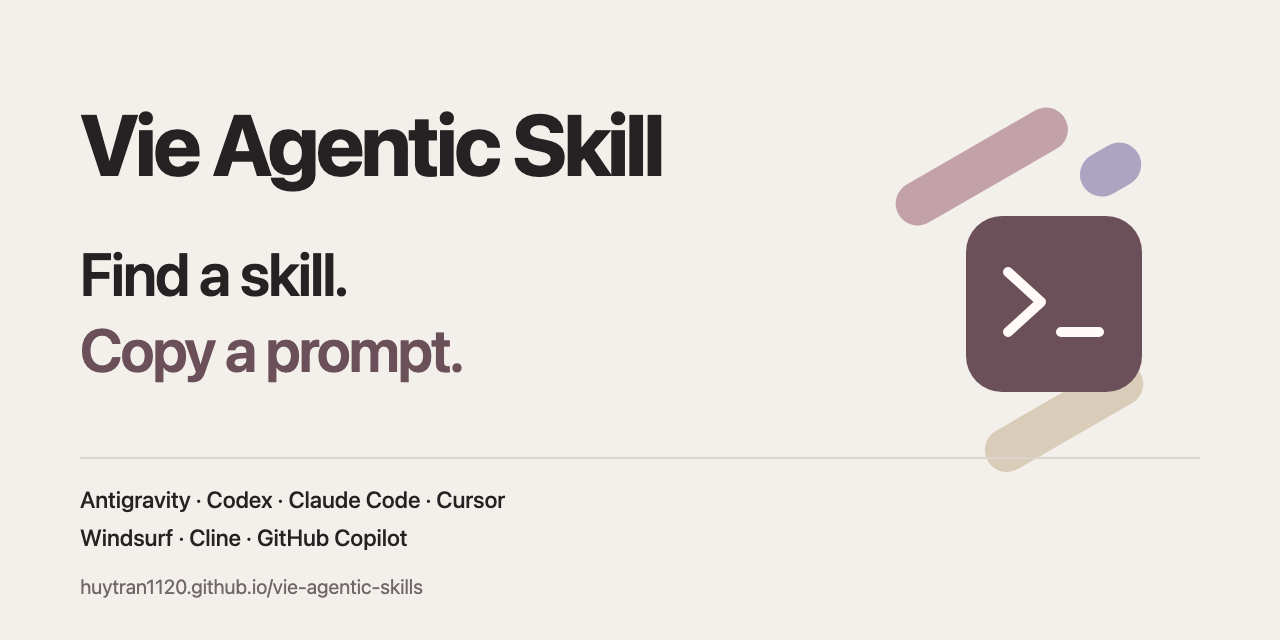
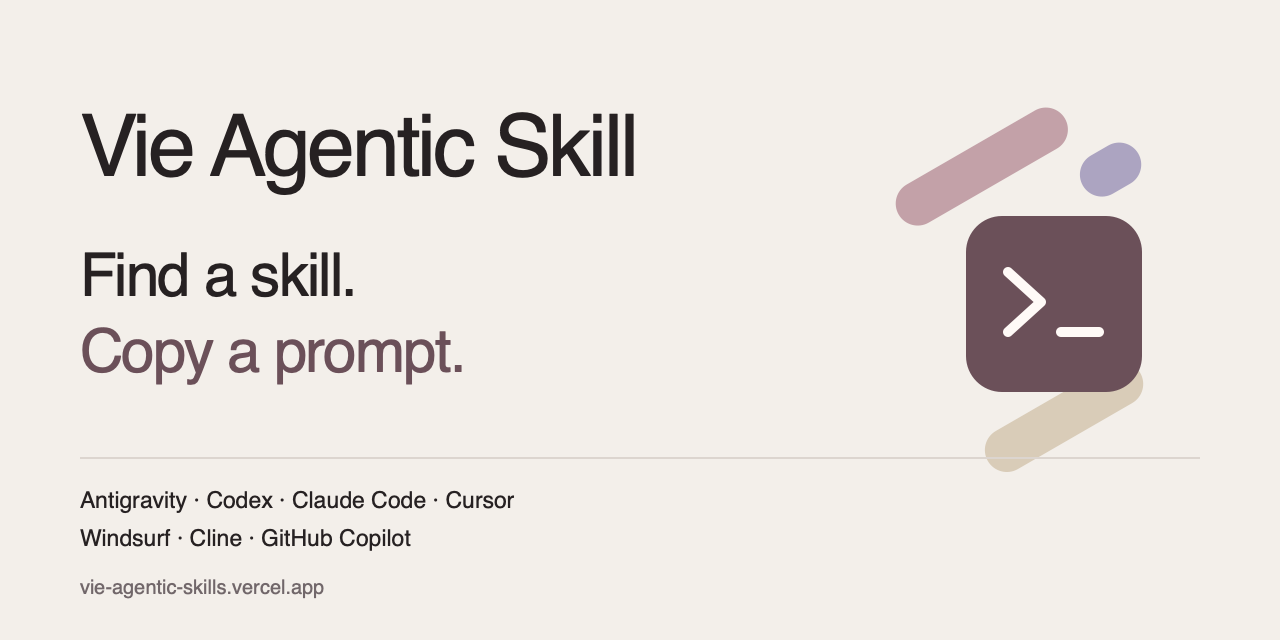
Align website SEO and installation links with Vercel

diff --git a/docs/index.html b/docs/index.html
@@ -3,22 +3,22 @@
 <head>
   <meta charset="UTF-8">
   <meta name="viewport" content="width=device-width, initial-scale=1.0">
-  <title>Vie Agentic Skill — Thư viện skill cho quy trình kỹ thuật</title>
-  <meta name="description" data-i18n-content="page.description" content="Tra cứu 3,885 runbook cho AI coding agents. Copy Agent Prompt để cài đủ tệp vào dự án, không cần clone; hoặc quản lý offline bằng CLI.">
+  <title>Vie Agentic Skill — Thư viện skill AI cho Codex, Claude</title>
+  <meta name="description" data-i18n-content="page.description" content="Tìm 3.885 skill cho Codex, Claude Code, Cursor và AI coding agents: lập trình, kiểm thử, DevOps, bảo mật. Đọc runbook, sao chép prompt và cài vào dự án.">
   <meta name="author" content="Vie Agentic Skill contributors; upstream catalog by Huy Tran">
   <meta name="robots" content="index, follow">
   <meta name="theme-color" content="#f3efea">
-  <link rel="canonical" href="https://huytran1120.github.io/vie-agentic-skills/">
-  <link rel="alternate" hreflang="vi" href="https://huytran1120.github.io/vie-agentic-skills/?lang=vi">
-  <link rel="alternate" hreflang="en" href="https://huytran1120.github.io/vie-agentic-skills/?lang=en">
+  <link rel="canonical" href="https://vie-agentic-skills.vercel.app/">
+  <link rel="alternate" hreflang="vi" href="https://vie-agentic-skills.vercel.app/?lang=vi">
+  <link rel="alternate" hreflang="en" href="https://vie-agentic-skills.vercel.app/?lang=en">
   <link rel="icon" type="image/png" href="./assets/brand/vas-icon.png">
   <link rel="apple-touch-icon" href="./assets/brand/vas-icon.png">
   <meta property="og:type" content="website">
   <meta property="og:title" data-i18n-content="page.ogTitle" content="Vie Agentic Skill — Thư viện skill AI">
   <meta property="og:description" data-i18n-content="page.ogDescription" content="Tìm skill, sao chép prompt và cài vào AI agent của bạn. Không cần clone repo.">
-  <meta property="og:url" content="https://huytran1120.github.io/vie-agentic-skills/">
-  <meta property="og:image" content="https://huytran1120.github.io/vie-agentic-skills/assets/social-preview.png">
-  <meta property="og:image:secure_url" content="https://huytran1120.github.io/vie-agentic-skills/assets/social-preview.png">
+  <meta property="og:url" content="https://vie-agentic-skills.vercel.app/">
+  <meta property="og:image" content="https://vie-agentic-skills.vercel.app/assets/social-preview.png">
+  <meta property="og:image:secure_url" content="https://vie-agentic-skills.vercel.app/assets/social-preview.png">
   <meta property="og:image:type" content="image/png">
   <meta property="og:image:width" content="1280">
   <meta property="og:image:height" content="640">
@@ -28,7 +28,7 @@
   <meta name="twitter:card" content="summary_large_image">
   <meta name="twitter:title" data-i18n-content="page.ogTitle" content="Vie Agentic Skill — Thư viện skill AI">
   <meta name="twitter:description" data-i18n-content="page.twitterDescription" content="Tìm skill, sao chép prompt và cài vào AI agent của bạn. Không cần clone repo.">
-  <meta name="twitter:image" content="https://huytran1120.github.io/vie-agentic-skills/assets/social-preview.png">
+  <meta name="twitter:image" content="https://vie-agentic-skills.vercel.app/assets/social-preview.png">
   <meta name="twitter:image:alt" data-i18n-content="page.imageAlt" content="Vie Agentic Skill — Tìm skill, sao chép prompt và cài vào dự án.">
   <link rel="stylesheet" href="./catalog.css">
   <script src="./i18n.js" defer></script>
@@ -41,7 +41,7 @@
       {
         "@type": "WebSite",
         "name": "Vie Agentic Skill",
-        "url": "https://huytran1120.github.io/vie-agentic-skills/",
+        "url": "https://vie-agentic-skills.vercel.app/",
         "inLanguage": ["vi-VN", "en"]
       },
       {
@@ -85,8 +85,8 @@
   <div class="hero-field" aria-hidden="true"><i></i><i></i><i></i><i></i><i></i><i></i><i></i><i></i></div>
   <a class="release-badge" href="#blender"><span aria-hidden="true">●</span><span data-i18n="hero.release">94 skill Blender · Khám phá bộ sưu tập</span><span aria-hidden="true">›</span></a>
   <h1 id="intro-title"><span>Vie Agentic Skill</span><span class="hero-second"><span data-i18n="hero.for">cho</span> <button id="hero-agent" aria-label="Đổi agent mục tiêu">Codex</button></span></h1>
-  <p class="intro-description"><span data-i18n="hero.description">3,885 runbook kỹ thuật cho AI coding agents.</span><br> <span data-i18n="hero.workflow">Tìm đúng chuyên môn, đọc quy trình và đưa vào dự án.</span></p>
-  <div class="hero-actions"><button id="hero-explore" class="button primary"><span aria-hidden="true">↓</span><span><span data-i18n="hero.explore">Khám phá thư viện</span><small data-i18n="hero.categories">119 danh mục · Python 3 CLI</small></span></button><a class="button quiet" href="#quickstart" data-i18n="hero.install">Hướng dẫn cài đặt</a></div>
+  <p class="intro-description"><span data-i18n="hero.description">3.885 skill kỹ thuật cho AI coding agents.</span><br> <span data-i18n="hero.workflow">Chọn agent, đọc runbook và sao chép prompt cài vào dự án.</span></p>
+  <div class="hero-actions"><button id="hero-explore" class="button primary"><span aria-hidden="true">↓</span><span><span data-i18n="hero.explore">Tìm skill cho dự án</span><small data-i18n="hero.categories">119 danh mục · Python 3 CLI</small></span></button><a class="button quiet" href="#quickstart" data-i18n="hero.install">Hướng dẫn cài đặt</a></div>
   <dl class="library-stats"><div><dt data-i18n="stats.runbooks">3,885 runbook</dt><dd data-i18n="stats.tasks">Quy trình theo tác vụ và stack.</dd></div><div><dt data-i18n="stats.agents">Nhiều coding agent</dt><dd data-i18n="stats.agentsDescription">Codex, Claude, Cursor và hơn nữa.</dd></div><div><dt>Python 3 CLI</dt><dd data-i18n="stats.cli">Tìm và cài bằng công cụ local.</dd></div><div><dt data-i18n="stats.sources">Nguồn rõ ràng</dt><dd data-i18n="stats.licenses">Từng skill giữ giấy phép riêng.</dd></div></dl>
 </div></section>
 <section id="catalog" class="shell catalog" aria-label="Thư viện skill" data-i18n-aria-label="catalog.title"><div class="section-heading catalog-heading"><div><p class="section-number">01</p><h2 data-i18n="catalog.title">Thư viện skill</h2><p data-i18n="catalog.description">Tìm theo tác vụ, công nghệ hoặc nguồn. Chọn skill để đọc runbook và tạo lệnh cài.</p></div><a class="text-link" href="https://github.com/huytran1120/vie-agentic-skills/blob/main/CATALOG.md" data-i18n="catalog.full">Toàn bộ catalog ↗</a></div>
@@ -137,6 +137,13 @@ chmod +x vas vas.py &amp;&amp;
     <div><h3 data-i18n="setup.useStep">4. Kiểm tra và bắt đầu dùng</h3><p data-i18n="setup.useHelp">Trong bảng cài đặt, mở “Sau khi cài: kiểm tra và dùng skill”. Chạy lệnh status, mở dự án trong agent rồi dán prompt mẫu và nêu tác vụ của bạn. Lệnh gỡ cũng được tạo đúng nơi đã chọn.</p></div>
     <p><span data-i18n="setup.requirementsBefore">CLI dùng thư viện chuẩn Python 3, không cần NPX. Trên Windows, dùng Git Bash với Python 3; có thể thay </span><code>./vas</code><span data-i18n="setup.requirementsBetween"> bằng </span><code>python3 vas.py</code><span data-i18n="setup.requirementsAfter">. Mỗi runbook có thể yêu cầu công cụ riêng. Link cần giữ nguyên kho nguồn; copy là bản sao độc lập và không tự cập nhật theo kho VAS.</span></p>
   </div></details>
+  <section id="faq" class="website-faq" aria-labelledby="faq-title">
+    <h2 id="faq-title" data-i18n="faq.title">Hiểu và sử dụng skill cho AI agent</h2>
+    <details class="quickstart-details"><summary data-i18n="faq.skillQuestion">Skill cho AI agent là gì?</summary><p data-i18n="faq.skillAnswer">Skill là bộ hướng dẫn chuyên môn trong SKILL.md: khi nào áp dụng, thông tin cần có, các bước thực hiện và cách kiểm tra kết quả. Một số skill có thêm scripts, mẫu và tài liệu tham khảo.</p></details>
+    <details class="quickstart-details"><summary data-i18n="faq.installQuestion">Cài skill vào Codex, Claude Code hoặc Cursor như thế nào?</summary><p data-i18n="faq.installAnswer">Tìm skill, đọc runbook, chọn agent rồi bấm Copy Agent Prompt. Dán prompt vào chat trong dự án đang mở để agent tải đủ tệp theo manifest và kiểm tra SHA-256. Luồng này không cần clone toàn bộ kho VAS.</p></details>
+    <details class="quickstart-details"><summary data-i18n="faq.requirementsQuestion">Cài skill có bao gồm runtime, MCP và quyền sử dụng không?</summary><p data-i18n="faq.requirementsAnswer">Cài skill cung cấp hướng dẫn và các tệp đi kèm. Bạn vẫn cần thiết lập công cụ, MCP hoặc tài khoản mà runbook yêu cầu. Kiểm tra giấy phép và thông báo nguồn của từng skill trước khi sử dụng hoặc phân phối lại.</p></details>
+    <details class="quickstart-details"><summary data-i18n="faq.cliQuestion">Khi nào nên dùng CLI thay cho Copy Agent Prompt?</summary><p data-i18n="faq.cliAnswer">Dùng CLI khi cần làm việc offline sau khi đã tải kho, cài bằng symlink, chọn thư mục đích hoặc quản lý nhiều skill. Các lệnh install, status và uninstall phải dùng cùng target và thư mục đích.</p></details>
+  </section>
 </section>
 </div>
 <section id="detail-view" class="shell detail-view" hidden aria-label="Chi tiết skill" data-i18n-aria-label="detail.label"><div id="skill-detail"></div></section>

diff --git a/docs/i18n.js b/docs/i18n.js
@@ -1,8 +1,8 @@
 (function () {
   'use strict';
   const messages = {
-    'page.title': ['Vie Agentic Skill — Thư viện skill cho quy trình kỹ thuật', 'Vie Agentic Skill — Runbooks for engineering workflows'],
-    'page.description': ['Tra cứu 3.885 runbook cho AI coding agents. Copy Agent Prompt để cài đủ tệp vào dự án, không cần clone; hoặc quản lý offline bằng CLI.', 'Explore 3,885 runbooks for AI coding agents. Copy Agent Prompt to install complete skills without cloning, or manage them offline with the CLI.'],
+    'page.title': ['Vie Agentic Skill — Thư viện skill AI cho Codex, Claude', 'Vie Agentic Skill — AI Skills for Codex, Claude and Cursor'],
+    'page.description': ['Tìm 3.885 skill cho Codex, Claude Code, Cursor và AI coding agents: lập trình, kiểm thử, DevOps, bảo mật. Đọc runbook, sao chép prompt và cài vào dự án.', 'Find 3,885 skills for Codex, Claude Code, Cursor and AI coding agents: development, testing, DevOps and security. Read runbooks and copy install prompts.'],
     'page.ogTitle': ['Vie Agentic Skill — Thư viện skill AI', 'Vie Agentic Skill — AI Agent Skills'],
     'page.ogDescription': ['Tìm skill, sao chép prompt và cài vào AI agent của bạn. Không cần clone repo.', 'Find a skill, copy a prompt, and install it in your AI agent. No repository clone needed.'],
     'page.twitterDescription': ['Tìm skill, sao chép prompt và cài vào AI agent của bạn. Không cần clone repo.', 'Find a skill, copy a prompt, and install it in your AI agent. No repository clone needed.'],
@@ -32,9 +32,9 @@
     'hero.release': ['94 skill Blender · Khám phá bộ sưu tập', '94 Blender skills · Explore the collection'],
     'hero.for': ['cho', 'for'],
     'hero.agent': ['Đổi agent mục tiêu. Hiện tại: {agent}', 'Change target agent. Current: {agent}'],
-    'hero.description': ['3.885 runbook kỹ thuật cho AI coding agents.', '3,885 engineering runbooks for AI coding agents.'],
-    'hero.workflow': ['Tìm đúng chuyên môn, đọc quy trình và đưa vào dự án.', 'Find the right expertise, read the workflow and bring it into your project.'],
-    'hero.explore': ['Khám phá thư viện', 'Explore the library'],
+    'hero.description': ['3.885 skill kỹ thuật cho AI coding agents.', '3,885 technical skills for AI coding agents.'],
+    'hero.workflow': ['Chọn agent, đọc runbook và sao chép prompt cài vào dự án.', 'Choose your agent, read the runbook and copy an install prompt.'],
+    'hero.explore': ['Tìm skill cho dự án', 'Find skills for your project'],
     'hero.categories': ['119 danh mục · Python 3 CLI', '119 categories · Python 3 CLI'],
     'hero.install': ['Hướng dẫn cài đặt', 'Installation guide'],
     'stats.runbooks': ['3.885 runbook', '3,885 runbooks'],
@@ -151,6 +151,15 @@
     'setup.useTitle': ['Dùng trong agent', 'Use it in your agent'],
     'setup.useDescription': ['Agent xác nhận đủ tệp, đọc SKILL.md và nêu yêu cầu còn thiếu. Nạp lại danh sách skill nếu ứng dụng yêu cầu rồi giao tác vụ của bạn.', 'The agent checks the files, reads SKILL.md and reports missing prerequisites. Reload the skill list if your app requires it, then describe your task.'],
     'setup.steps': ['Cách 2: quản lý bằng CLI — clone kho một lần', 'Option 2: manage with the CLI — clone VAS once'],
+    'faq.title': ['Hiểu và sử dụng skill cho AI agent', 'Understand and use AI agent skills'],
+    'faq.skillQuestion': ['Skill cho AI agent là gì?', 'What is an AI agent skill?'],
+    'faq.skillAnswer': ['Skill là bộ hướng dẫn chuyên môn trong SKILL.md: khi nào áp dụng, thông tin cần có, các bước thực hiện và cách kiểm tra kết quả. Một số skill có thêm scripts, mẫu và tài liệu tham khảo.', 'A skill is a specialized playbook in SKILL.md: when to use it, required inputs, steps and verification. Some skills also include scripts, templates and reference material.'],
+    'faq.installQuestion': ['Cài skill vào Codex, Claude Code hoặc Cursor như thế nào?', 'How do I install a skill for Codex, Claude Code or Cursor?'],
+    'faq.installAnswer': ['Tìm skill, đọc runbook, chọn agent rồi bấm Copy Agent Prompt. Dán prompt vào chat trong dự án đang mở để agent tải đủ tệp theo manifest và kiểm tra SHA-256. Luồng này không cần clone toàn bộ kho VAS.', 'Find a skill, read its runbook, choose your agent and select Copy Agent Prompt. Paste the prompt into your project chat so the agent downloads the complete manifest inventory and checks SHA-256. You do not need to clone the full VAS repository.'],
+    'faq.requirementsQuestion': ['Cài skill có bao gồm runtime, MCP và quyền sử dụng không?', 'Does installing a skill include its runtime, MCP setup and usage rights?'],
+    'faq.requirementsAnswer': ['Cài skill cung cấp hướng dẫn và các tệp đi kèm. Bạn vẫn cần thiết lập công cụ, MCP hoặc tài khoản mà runbook yêu cầu. Kiểm tra giấy phép và thông báo nguồn của từng skill trước khi sử dụng hoặc phân phối lại.', 'Installing a skill provides its instructions and bundled files. Set up any tools, MCP servers or accounts required by the runbook separately. Review each skill’s license and source notices before using or redistributing it.'],
+    'faq.cliQuestion': ['Khi nào nên dùng CLI thay cho Copy Agent Prompt?', 'When should I use the CLI instead of Copy Agent Prompt?'],
+    'faq.cliAnswer': ['Dùng CLI khi cần làm việc offline sau khi đã tải kho, cài bằng symlink, chọn thư mục đích hoặc quản lý nhiều skill. Các lệnh install, status và uninstall phải dùng cùng target và thư mục đích.', 'Use the CLI for offline work after downloading the repository, symlink installs, explicit destination paths or managing multiple skills. Use the same target and destination for install, status and uninstall.'],
     'setup.cloneStep': ['1. Tải kho và mở thư mục', '1. Clone and open the repository'],
     'setup.searchStep': ['2. Tìm và đọc một skill mẫu', '2. Find and read an example skill'],
     'setup.installStep': ['3. Cài skill vào đúng agent', '3. Install for the right agent'],

diff --git a/docs/catalog.css b/docs/catalog.css
@@ -46,8 +46,8 @@ code, kbd, pre { font-family: var(--mono); }
 .brand-name { font-size: 12px; color: var(--muted); }
 .desktop-nav { position: relative; display: flex; align-items: center; gap: 26px; margin-right: auto; }
 .desktop-nav a { position: relative; z-index: 1; color: var(--muted); text-decoration: none; font-size: 13px; padding-block: 14px; }
-.nav-ink { position: absolute; top: 0; left: 0; background: var(--soft); border-radius: 8px; opacity: 0; pointer-events: none; transition: transform .45s cubic-bezier(.2,.85,.25,1.12), width .45s cubic-bezier(.2,.85,.25,1.12), opacity .2s; }
-.nav-ink.is-visible { opacity: 1; }
+.nav-ink { display: none; position: absolute; top: 0; left: 0; background: var(--soft); border-radius: 8px; opacity: 0; pointer-events: none; transition: transform .45s cubic-bezier(.2,.85,.25,1.12), width .45s cubic-bezier(.2,.85,.25,1.12), opacity .2s; }
+.nav-ink.is-visible { display: block; opacity: 1; }
 .desktop-nav a:hover, .text-link:hover { color: var(--ink); }
 .header-actions { display: flex; margin-left: auto; gap: 2px; }
 .button, .icon-button { display: inline-flex; justify-content: center; align-items: center; gap: 10px; min-height: 44px; border: 1px solid transparent; border-radius: 10px; padding: 9px 16px; background: transparent; font-size: 13px; font-weight: 600; text-decoration: none; transition: background-color .2s, transform .2s, border-color .2s; }
@@ -213,6 +213,9 @@ button.filter-chip { min-height: 32px; }
 .quickstart-commands { padding: 12px 0 24px; display: grid; gap: 24px; }
 .quickstart-commands h3 { font-size: 14px; margin-bottom: 12px; }
 .quickstart-commands > p { color: var(--muted); font-size: 12px; }
+.website-faq { margin-top: 48px; display: grid; gap: 12px; }
+.website-faq h2 { margin-bottom: 10px; font-size: 26px; text-wrap: balance; }
+.website-faq details > p { padding-bottom: 20px; max-width: 85ch; color: var(--muted); font-size: 14px; }
 .command-box { display: flex; align-items: center; gap: 16px; padding: 16px; border: 1px solid var(--line); border-radius: 10px; background: var(--paper); min-width: 0; }
 .command-box code { flex: 1; min-width: 0; white-space: pre-wrap; font-size: 12px; overflow-wrap: anywhere; }
 .site-footer { border-top: 1px solid var(--line); padding-block: 32px; }

diff --git a/docs/catalog.js b/docs/catalog.js
@@ -69,7 +69,7 @@
   }
   const targetFolders = { antigravity: '.agents/skills', codex: '.codex/skills', claude: '.claude/skills', cursor: '.cursor/skills', windsurf: '.windsurf/skills', cline: '.cline/skills', copilot: '.github/skills' };
   const globalFolders = { antigravity: '~/.gemini/antigravity/skills', codex: '~/.codex/skills', claude: '~/.claude/skills', cursor: '~/.cursor/skills', windsurf: '~/.codeium/windsurf/skills', cline: '~/.cline/skills', copilot: '~/.copilot/skills' };
-  const publishedSite = 'https://huytran1120.github.io/vie-agentic-skills';
+  const publishedSite = 'https://vie-agentic-skills.vercel.app';
   const encodePath = path => path.split('/').map(part => encodeURIComponent(part).replace(/[!'()*]/g, char => '%' + char.charCodeAt(0).toString(16).toUpperCase())).join('/');
   function installManifestUrl(skill, base = publishedSite) {
     if (typeof skill.id !== 'string' || /[\\\x00-\x20\x7f]/.test(skill.id) || skill.id.split('/').some(part => !part || part === '.' || part === '..')) {

diff --git a/tests/pages-layout.html b/tests/pages-layout.html
@@ -48,6 +48,10 @@
       for (const node of d.querySelectorAll('[data-i18n]')) {
         if (node.id !== 'results-title') check(node.textContent === w.VASI18n.translate(node.dataset.i18n, locale), `${locale}: stale translation ${node.dataset.i18n}`);
       }
+      // A previously hovered/focused desktop link must not leave offscreen ink on mobile.
+      const githubNavigation = d.querySelector('.desktop-nav a[href="https://github.com/huytran1120/vie-agentic-skills"]');
+      githubNavigation.focus({ preventScroll: true });
+      githubNavigation.blur();
       for (const width of [1440, 1024, 768, 390, 320]) {
         frame.style.width = `${width}px`;
         await wait(80);

diff --git a/tests/test_pages_build.py b/tests/test_pages_build.py
@@ -16,6 +16,7 @@ import tempfile
 import threading
 import time
 import unittest
+import xml.etree.ElementTree as ET
 from unittest.mock import patch
 from urllib.parse import urlparse
 from urllib.request import urlopen
@@ -119,20 +120,46 @@ class PagesBuildTests(unittest.TestCase):
             def __init__(self):
                 super().__init__()
                 self.metadata = {}
+                self.links = []
+                self.structured = []
+                self.json_parts = None
 
             def handle_starttag(self, tag, attrs):
+                attrs = dict(attrs)
                 if tag == "meta":
-                    attrs = dict(attrs)
                     key = attrs.get("property", attrs.get("name"))
                     self.metadata[key] = attrs.get("content")
+                elif tag == "link":
+                    self.links.append(attrs)
+                elif tag == "script" and attrs.get("type") == "application/ld+json":
+                    self.json_parts = []
+
+            def handle_data(self, data):
+                if self.json_parts is not None:
+                    self.json_parts.append(data)
+
+            def handle_endtag(self, tag):
+                if tag == "script" and self.json_parts is not None:
+                    self.structured.append(json.loads("".join(self.json_parts)))
+                    self.json_parts = None
 
         parser = MetadataParser()
         parser.feed((ROOT / "docs/index.html").read_text())
         metadata = parser.metadata
         image = urlparse(metadata["og:image"])
         self.assertEqual(image.scheme, "https")
-        self.assertEqual(image.netloc, "huytran1120.github.io")
-        self.assertEqual(image.path, "/vie-agentic-skills/assets/social-preview.png")
+        self.assertEqual(image.netloc, "vie-agentic-skills.vercel.app")
+        self.assertEqual(image.path, "/assets/social-preview.png")
+        primary = "https://vie-agentic-skills.vercel.app/"
+        self.assertEqual([link["href"] for link in parser.links if link.get("rel") == "canonical"], [primary])
+        self.assertEqual(metadata["og:url"], primary)
+        self.assertTrue(all(link["href"].startswith(primary) for link in parser.links if link.get("hreflang")))
+        websites = [entry for document in parser.structured for entry in document.get("@graph", []) if entry.get("@type") == "WebSite"]
+        self.assertEqual([entry["url"] for entry in websites], [primary])
+        self.assertIn("Sitemap: " + primary + "sitemap.xml", (ROOT / "docs/robots.txt").read_text())
+        sitemap = ET.parse(ROOT / "docs/sitemap.xml")
+        locations = [node.text for node in sitemap.findall(".//{http://www.sitemaps.org/schemas/sitemap/0.9}loc")]
+        self.assertEqual(locations, [primary])
         self.assertEqual(metadata["og:image:secure_url"], metadata["og:image"])
         self.assertEqual(metadata["twitter:image"], metadata["og:image"])
         self.assertEqual(metadata["og:image:type"], "image/png")

diff --git a/AGENTS.md b/AGENTS.md
@@ -12,8 +12,11 @@ or their scripts/assets. Old full-text distribution dumps were not imported.
 Preview from the project root using `python3 -m http.server 8765 --bind 127.0.0.1`
 and open `http://127.0.0.1:8765/docs/`. Local runbook links require serving the
 project root, not just `docs/`. The project repository is
-https://github.com/huytran1120/vie-agentic-skills. The public website is
-https://huytran1120.github.io/vie-agentic-skills/, deployed by `.github/workflows/deploy-pages.yml`.
+https://github.com/huytran1120/vie-agentic-skills. The primary public website is
+https://vie-agentic-skills.vercel.app/, built with `vercel.json`. UX, UI, content,
+and SEO improvements target this primary website. GitHub Pages remains available
+at https://huytran1120.github.io/vie-agentic-skills/ with a notice linking visitors
+to Vercel, deployed by `.github/workflows/deploy-pages.yml`.
 
 ## GitHub Pages publication budget
 
